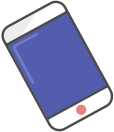
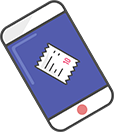
Picture update and other small changes in landing page.

diff --git a/app/assets/stylesheets/application_static.css.scss b/app/assets/stylesheets/application_static.css.scss
@@ -226,7 +226,7 @@ body {
   background: #fff;
   background-image: url("/common/images/landing/banner/mobile.gif"), url("/common/images/landing/banner/finly-card-md.png"), url("/common/images/landing/banner/monitor.png"), url("/common/images/landing/banner/transparent-layer.png"), url("/common/images/landing/banner/background-md.png");
   background-repeat: no-repeat, no-repeat, no-repeat, no-repeat, no-repeat;
-  background-position-y: 382px, 439px, 177px, top, -95px;
+  background-position-y: 383px, 439px, 177px, top, bottom 40px;
   background-position-x: 64%, 55%, 86%, right, center;
   background-size: 93px, 154px, 400px, 735px, cover;
 
@@ -485,7 +485,9 @@ body {
         padding-left: 20px;
         font-size: 17px;
         margin-top: 0;
-        color: #555;
+        color: #353B53;
+        font-weight: 700;
+        letter-spacing: 0.2px;
       }
 
 
@@ -807,10 +809,10 @@ body {
 
 @media (min-width: 1450px) {
   .banner{
-    background: #3D4B9D;
+    background: #fff;
     background-image: url("/common/images/landing/banner/mobile.gif"), url("/common/images/landing/banner/finly-card-md.png"), url("/common/images/landing/banner/monitor.png"), url("/common/images/landing/banner/transparent-layer.png"), url("/common/images/landing/banner/background-md.png");
     background-repeat: no-repeat, no-repeat, no-repeat, no-repeat, no-repeat;
-    background-position-y: 382px, 439px, 177px, top, center;
+    background-position-y: 383px, 439px, 177px, top, bottom 40px;
     background-position-x: 74%, 68%, 89%, right, center;
     background-size: 93px, 154px, 400px, 665px, cover;
   }
